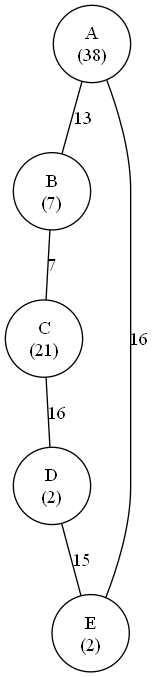
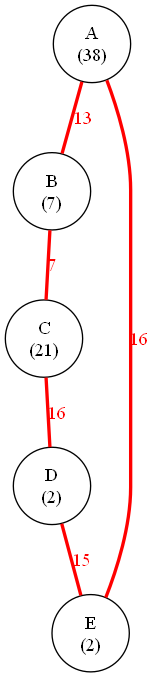
added highligthing of NN path to .png

diff --git a/main.c b/main.c
@@ -83,9 +83,21 @@ void freeGraph (Graph *g)
     free(g);
 }
 
-int exportDot(const Graph *g, const char *path)
+static bool edgeInPath(const int *tour, int count, int a, int b)
 {
-    FILE *f = fopen(path, "w");
+    if (tour == NULL) return false;
+    for (int i = 0; i < count; i++)     
+    {
+        int u = tour[i], v = tour[i + 1];
+        if ((u == a && v == b) || (u == b && v == a))
+            return true;
+    }
+    return false;
+}
+
+int exportDot(const Graph *g, const char *file, const int *tour)
+{
+    FILE *f = fopen(file, "w");
     if (f == NULL)
         return -1;
 
@@ -96,11 +108,23 @@ int exportDot(const Graph *g, const char *path)
     {
         fprintf(f, "    %d [label=\"%c\\n(%d)\"];\n", i, 'A' + i, g->vertices[i].value);
     }
-    for (int i = 0; i < g->count; i++) {
+
+    for (int i = 0; i < g->count; i++)
+    {
         const Vertex *v = &g->vertices[i];
         for (int k = 0; k < v->degree; k++)
         {
-            fprintf(f, "    %d -- %d [label=\"%d\"];\n", i, v->edges[k].to, v->edges[k].weight);
+            int to = v->edges[k].to;
+            if (to < i) continue;   
+
+            if (edgeInPath(tour, g->count + 1, i, to))
+            {
+                fprintf(f, "    %d -- %d [label=\"%d\", color=\"blue\", penwidth=2.5, fontcolor=\"blue\"];\n", i, to, v->edges[k].weight);
+            }
+            else
+            {
+                fprintf(f, "    %d -- %d [label=\"%d\", color=\"gray60\"];\n", i, to, v->edges[k].weight);
+            }
         }
     }
 
@@ -211,7 +235,7 @@ void free2Dint (int **array, int size)
     free(array);
 }
 
-int nearestNeighbour(Graph *g, char *path)
+int nearestNeighbour(Graph *g, int *path)
 {
     bool *visited = calloc(g->count, sizeof(bool));
 
@@ -266,7 +290,7 @@ int nearestNeighbour(Graph *g, char *path)
         }
     }   
 
-    path[g->count -1] = start;
+    path[g->count] = start;
 
     free(visited);
     return cost;
@@ -335,17 +359,13 @@ int main (int argc, char *argv[])
     char *dot = strrchr(name, '.');
     if (dot) *dot = '\0'; 
 
-    char dotPath[300];
-    snprintf(dotPath, sizeof dotPath, "output/%s.dot", name);
-    exportDot(G, dotPath);
-
-    char *path = malloc(count * sizeof(char));
+    int *path = malloc((count + 1) * sizeof(int));
 
     int costOfGraph = nearestNeighbour(G, path);
     
-    for (int i = 0; i < count; i++)
+    for (int i = 0; i < count + 1; i++)
     {
-        if (i == count -1 )
+        if (i == count)
         {
             printf("%c", path[i] + 'A');
         }
@@ -354,7 +374,23 @@ int main (int argc, char *argv[])
             printf("%c -> ", path[i] + 'A');
         }
     }
+    printf("\n");
+    for (int i = 0; i < count + 1; i++)
+    {
+        if (i == count)
+        {
+            printf("%d", path[i] );
+        }
+        else 
+        {
+            printf("%d -> ", path[i] );
+        }
+    }
     printf("\nNN path costs: %d\n", costOfGraph);
+
+    char dotPath[300];
+    snprintf(dotPath, sizeof dotPath, "output/%s.dot", name);
+    exportDot(G, dotPath, path);
 
     //free
     free(vertecis);
